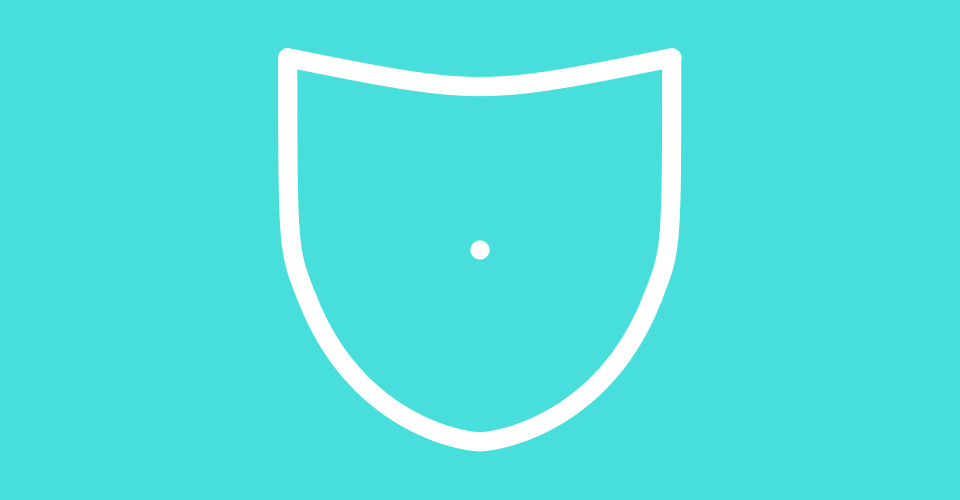
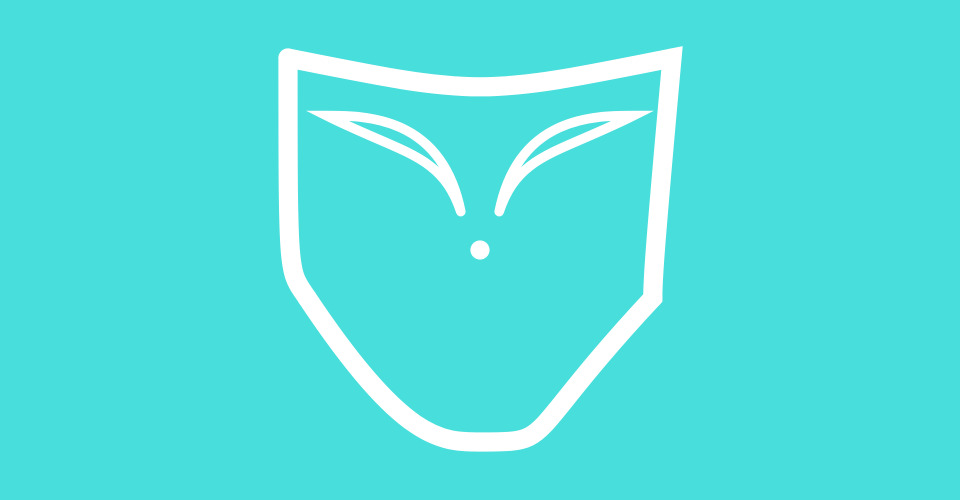
Curve Experiments

diff --git a/face_code.js b/face_code.js
@@ -44,12 +44,28 @@ function faceMask() {
   point(0, 0); // centre
 
   // Mask Curve(s)
-  // startPoint x,y | curvePoint x,y | curvePoint x,y | endPoint x,y
-  bezier(x1, y1, 0, -8, 0, -8, x2, y2); // top curve
-  bezier(x1, y1, -10, 0, -10, 0, x3, y3); // left curve
-  bezier(x2, y2, 10, 0, 10, 0, x5, y5); // right curve
-  bezier(x3, y3, -6.5, 9, -1, 10, x4, y4); // bottom left curve
-  bezier(x5, y5, 6.5, 9, 1, 10, x4, y4); // bottome right curve
+  beginShape();
+  vertex(-10, -10);
+  bezierVertex(0, -8, 0, -8, x2, y2); // TLeft to TRight
+  bezierVertex(x5, 1, x5, 1.75, x5, y5); // TRight to BRight *
+  bezierVertex(2, 10, 4, 10, x4, y4); // BRight to BMiddle %
+  bezierVertex(-2, 10, -4, 10, x3, y3); // BMiddle to BLeft %
+  bezierVertex(x1, 1, x1, 1.75, x1, y1); // BLeft to TLeft *
+  endShape();
+
+  // Eye(s)
+  strokeWeight(0.5);
+  beginShape();
+  vertex(1, -2);
+  bezierVertex(2, -7, 6, -7, 8, -7);
+  bezierVertex(4, -5, 2, -5, 1, -2)
+  endShape();
+
+  beginShape();
+  vertex(-1, -2);
+  bezierVertex(-2, -7, -6, -7, -8, -7);
+  bezierVertex(-4, -5, -2, -5, -1, -2)
+  endShape();
 
 }
 

diff --git a/README.md b/README.md
@@ -3,4 +3,4 @@
 ## 2023 MDDN342 Assignment 2: Randomised Collections
 **This is where you talk about your project!**
 
-Still in the early stages of figuring out the best way to make the shapes I need. To get this mask outline I user bezierPoint() curves, which definately achieved the shape I'm looking for. However, using this method isn't working well with fill(), so I may look for an alternative method that works better, or figure out another way to fill the shape.
+Didn't do much over the break but some of the last stuff that I worked on was further experimenting with the type of shape I wanted to use to get the curves. Here I'm using bezierVertex(); I'm pretty happ with how easy this one is to use so I did further experiennts with an eye shape. I like how dramatic they look so I think I'll continue to use bezierVertex() for most (if not all) of the facial features.
